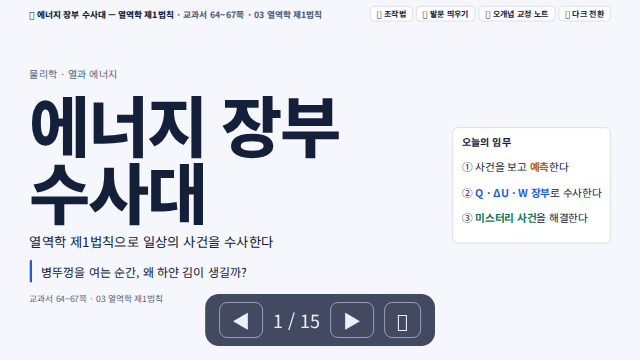
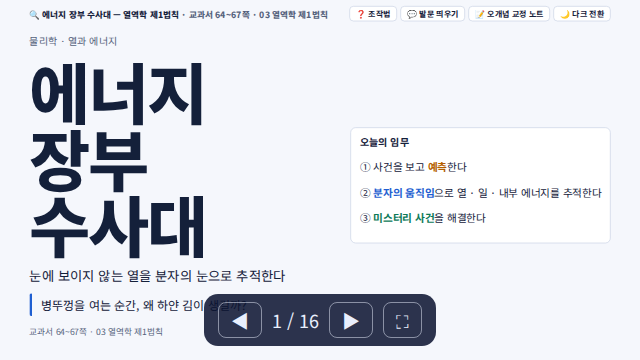
에너지 장부 수사대: 장부 채우기 대신 분자 시뮬레이션·분자 눈 해설로 개편 (16장)

diff --git a/lectures/mechanics-energy/2026-10-06-first-law-energy-ledger.html b/lectures/mechanics-energy/2026-10-06-first-law-energy-ledger.html
@@ -152,10 +152,10 @@ table.t tbody tr.on{background:var(--blue-soft);font-weight:700}
 <section class="slide cover" id="cover">
   <div class="cv-l"><div class="cv-tag">물리학 · 열과 에너지</div>
     <h1>에너지 장부 수사대</h1>
-    <p class="lead" style="margin:0">열역학 제1법칙으로 일상의 사건을 수사한다</p>
+    <p class="lead" style="margin:0">눈에 보이지 않는 열을 분자의 눈으로 추적한다</p>
     <div class="q">병뚜껑을 여는 순간, 왜 하얀 김이 생길까?</div>
     <div class="sm">교과서 64~67쪽 · 03 열역학 제1법칙</div></div>
-  <div class='box'><h3>오늘의 임무</h3><p>① 사건을 보고 <span class='k'>예측</span>한다</p><p>② <span class='p'>Q · ΔU · W 장부</span>로 수사한다</p><p>③ <span class='ok'>미스터리 사건</span>을 해결한다</p></div>
+  <div class='box'><h3>오늘의 임무</h3><p>① 사건을 보고 <span class='k'>예측</span>한다</p><p>② <span class='p'>분자의 움직임</span>으로 열 · 일 · 내부 에너지를 추적한다</p><p>③ <span class='ok'>미스터리 사건</span>을 해결한다</p></div>
 </section>
 
 <!-- hook -->
@@ -166,9 +166,18 @@ table.t tbody tr.on{background:var(--blue-soft);font-weight:700}
 
 <!-- rules -->
 <section class="slide" id="rules">
-  <header class="hd"><h2>게임 규칙: 장부를 채워라</h2><span class="src">수업 활동 안(제안)</span></header>
-<table class='t'><tr><th>구성물</th><th>역할</th></tr><tr><td>장부판</td><td>Q / ΔU / W 세 칸에 에너지 칩과 부호(＋ － 0)를 놓는다</td></tr><tr><td>사건 카드</td><td>일상 사건 5장 (병뚜껑 · 자전거 펌프 · 구름 · 밀폐 용기 · 주사기)</td></tr><tr><td>과정 카드</td><td>등온 / 단열 / 등압 / 등적 + P-V 그래프</td></tr><tr><td>점수</td><td>장부가 맞고 이유를 말하면 팀 점수, 막히면 힌트 카드 (협동 점수)</td></tr></table><div class='box' style='margin-top:22px'><h3>약속 (교과서 65쪽)</h3><p><span class='k'>Q > 0</span> 기체가 열을 흡수 · <span class='k'>Q < 0</span> 열을 방출</p><p><span class='p'>W > 0</span> 기체가 외부에 한 일 · <span class='p'>W < 0</span> 기체가 외부에게서 받은 일</p></div>
+  <header class="hd"><h2>수사 원칙: 열은 안 보여도 흔적이 남는다</h2><span class="src">교과서 65쪽</span></header>
+<div class='grid3'><div class='card'><b>🔥</b><span class='k'>열 Q</span> — 분자 충돌로 <span class='k'>옮겨 가는</span> 에너지<br><span class='sm'>뜨거운 벽의 빠른 분자가 부딪히며 무질서하게 전달</span></div><div class='card'><b>💪</b><span class='p'>일 W</span> — 피스톤이 한 방향으로 밀며 <span class='p'>옮겨 가는</span> 에너지<br><span class='sm'>다가오면 분자가 빨라지고, 멀어지면 느려진다</span></div><div class='card'><b>🔋</b><span class='ok'>내부 에너지 U</span> — 분자 운동에너지의 합 (<span class='ok'>저장</span>된 양)<br><span class='sm'>온도 = 분자 평균 운동에너지의 척도</span></div></div><div class='box' style='margin-top:22px'><h3>수사 요령</h3><p>열은 직접 안 보인다 → 눈에 보이는 <span class='k'>단서</span>로 추리한다: ① 피스톤의 움직임(일) ② 온도 변화(U) ③ 열판이 있는가(열)</p><p class='sm'>한 줄로: 열 · 일은 에너지가 드나드는 <b>통로</b>, 내부 에너지는 안에 <b>저장된</b> 양</p></div><div class='box' style='margin-top:22px'><h3>부호 약속 (교과서 65쪽)</h3><p><span class='k'>Q > 0</span> 기체가 열을 흡수 · <span class='k'>Q < 0</span> 열을 방출</p><p><span class='p'>W > 0</span> 기체가 외부에 한 일 · <span class='p'>W < 0</span> 기체가 외부에게서 받은 일</p></div>
 </section>
+
+<!-- mol -->
+<section class="slide" id="mol">
+  <header class="hd"><h2>분자 눈으로 보기: 열과 일이 U를 바꾼다</h2><span class="src">2차원 단순 모델 · 분자 48개</span></header>
+<div class="body" style="grid-template-columns:1040px 1fr">
+<canvas id='mo-cv'></canvas><div class='side'><div class='box'><h3>조작</h3><div class='sm' style='margin-bottom:6px'>아래 벽의 열판</div><div class='chips' id='mo-chips'><span class='chip' data-k='-1'>냉각</span><span class='chip on' data-k='0'>끔(단열)</span><span class='chip' data-k='1'>가열</span></div><div class='ctl' style='margin-top:14px'><div class='row'><span>피스톤 위치</span><span class='val' id='mo-pv'></span></div><input type='range' id='mo-p' min='420' max='960' step='5' value='900'></div><div class='btns' style='margin-top:12px'><button class='btn' id='mo-in'>⚡ 순식간에 밀기</button><button class='btn' id='mo-out'>⚡ 순식간에 당기기</button><button class='btn pri' id='mo-rs'>↺ 처음으로</button></div></div><div class='box'><h3>관찰 포인트</h3><p>① <span class='k'>가열</span>만 (피스톤 고정): 분자 색? W?</p><p>② 열판 <span class='k'>끔</span> + 피스톤 <span class='p'>밀기</span>: Q는? 온도는?</p><p>③ 팽창시키면서 가열하면 U는 얼마나 변할까?</p></div></div>
+</div>
+</section>
+
 
 <!-- video1 -->
 <section class="slide" id="video1">
@@ -229,20 +238,20 @@ table.t tbody tr.on{background:var(--blue-soft);font-weight:700}
 
 <!-- r13 -->
 <section class="slide" id="r13" data-steps="3">
-  <header class="hd"><h2>장부 공개: 단열 사건 3개</h2><span class="src">교과서 66~67쪽 · 단열 과정, 병뚜껑, 구름</span></header>
-<div class="side steps" style="gap:6px;justify-content:flex-start"><div class="st" data-i="1"><div class="n">1</div><div><div class="tl"><b>사건 1 · 병뚜껑</b><span class="t">순식간에 열림</span></div><div class="eq"><span class="m">Q ≈ 0, W > 0  →  ΔU < 0  →  T ↓</span></div><div class="t" style="color:var(--ink);font-size:27px;line-height:1.4">기체가 팽창하며 일 → 내부 에너지 감소 → 수증기 응결</div></div></div>
-<div class="st" data-i="2"><div class="n">2</div><div><div class="tl"><b>사건 2 · 자전거 펌프</b><span class="t">빠르게 누름</span></div><div class="eq"><span class="m">Q ≈ 0, W < 0  →  ΔU > 0  →  T ↑</span></div><div class="t" style="color:var(--ink);font-size:27px;line-height:1.4">받은 일이 내부 에너지로 (마찰의 기여는 확실하지 않음)</div></div></div>
-<div class="st" data-i="3"><div class="n">3</div><div><div class="tl"><b>사건 3 · 구름</b><span class="t">공기 덩어리가 상승</span></div><div class="eq"><span class="m">Q ≈ 0, W > 0  →  ΔU < 0  →  T ↓</span></div><div class="t" style="color:var(--ink);font-size:27px;line-height:1.4">단열 팽창으로 온도가 내려가 구름이 생김 (교과서 67쪽)</div></div></div></div>
-<div class='box'><h3>모둠 장부판에 먼저 쓰기 (3분)</h3><table class='t'><tr><th>사건</th><th>Q</th><th>ΔU</th><th>W</th><th>온도</th></tr><tr><td>① 병뚜껑</td><td>?</td><td>?</td><td>?</td><td>?</td></tr><tr><td>② 펌프</td><td>?</td><td>?</td><td>?</td><td>?</td></tr><tr><td>③ 구름</td><td>?</td><td>?</td><td>?</td><td>?</td></tr></table><p class='sm'>→ 키를 누르면 정답이 한 줄씩 공개됩니다</p></div>
+  <header class="hd"><h2>사건 해결: 단열 사건 3개</h2><span class="src">교과서 66~67쪽 · 단열 과정, 병뚜껑, 구름</span></header>
+<div class="side steps" style="gap:6px;justify-content:flex-start"><div class="st" data-i="1"><div class="n">1</div><div><div class="tl"><b>사건 1 · 병뚜껑</b><span class="t">순식간에 열림</span></div><div class="eq"><span class="m">Q ≈ 0, W > 0  →  ΔU < 0  →  T ↓</span></div><div class="t" style="color:var(--ink);font-size:27px;line-height:1.4">병 속 기체가 팽창하며 바깥 공기를 밀어냄 → 멀어지는 면에서 튕긴 분자가 느려져 U 감소 → 수증기 응결</div></div></div>
+<div class="st" data-i="2"><div class="n">2</div><div><div class="tl"><b>사건 2 · 자전거 펌프</b><span class="t">빠르게 누름</span></div><div class="eq"><span class="m">Q ≈ 0, W < 0  →  ΔU > 0  →  T ↑</span></div><div class="t" style="color:var(--ink);font-size:27px;line-height:1.4">다가오는 피스톤에 부딪힌 분자가 빨라져 U 증가 (마찰의 기여는 확실하지 않음)</div></div></div>
+<div class="st" data-i="3"><div class="n">3</div><div><div class="tl"><b>사건 3 · 구름</b><span class="t">공기 덩어리가 상승</span></div><div class="eq"><span class="m">Q ≈ 0, W > 0  →  ΔU < 0  →  T ↓</span></div><div class="t" style="color:var(--ink);font-size:27px;line-height:1.4">주변 기압이 낮아 팽창 → 분자가 느려져 온도 하강 → 수증기 응결 (교과서 67쪽)</div></div></div></div>
+<div class='box'><h3>모둠 토론 (3분): 분자 눈으로 먼저 말해 보기</h3><p>① 열이 드나들 수 있었나? (열판 역할을 하는 것이 있나?)</p><p>② 분자는 무엇과 부딪혀 빨라지거나 느려졌나?</p><p>③ 그래서 U와 온도는 어떻게 되었나?</p><p class='sm'>→ 키를 누르면 정답이 한 줄씩 공개됩니다</p></div>
 </section>
 
 <!-- r45 -->
 <section class="slide" id="r45" data-steps="3">
-  <header class="hd"><h2>장부 공개: 등적·등압 사건 2개</h2><span class="src">교과서 65~66쪽 · 해 보기, 등압·등적 과정</span></header>
-<div class="side steps" style="gap:6px;justify-content:flex-start"><div class="st" data-i="1"><div class="n">1</div><div><div class="tl"><b>사건 4 · 밀폐 용기 가열</b><span class="t">부피가 변하지 않음</span></div><div class="eq"><span class="m">W = 0  →  Q = ΔU</span></div><div class="t" style="color:var(--ink);font-size:27px;line-height:1.4">열이 모두 내부 에너지로 → 온도·압력 상승 (등적)</div></div></div>
-<div class="st" data-i="2"><div class="n">2</div><div><div class="tl"><b>사건 5a · 주사기 + 뜨거운 물</b><span class="t">피스톤이 올라감</span></div><div class="eq"><span class="m">Q > 0, ΔU > 0, W > 0</span></div><div class="t" style="color:var(--ink);font-size:27px;line-height:1.4">열 일부는 일, 나머지는 내부 에너지 (등압, 교과서 65쪽)</div></div></div>
-<div class="st" data-i="3"><div class="n">3</div><div><div class="tl"><b>사건 5b · 주사기 + 얼음물</b><span class="t">피스톤이 내려감</span></div><div class="eq"><span class="m">Q < 0, ΔU < 0, W < 0</span></div><div class="t" style="color:var(--ink);font-size:27px;line-height:1.4">열을 방출 → 부피 감소(외부가 일을 해 줌) → 온도 하강</div></div></div></div>
-<div class='box'><h3>모둠 장부판에 먼저 쓰기 (3분)</h3><p>교과서 65쪽 <span class='k'>해 보기</span>: 주사기 2개를 뜨거운 물과 얼음물에 넣고 피스톤 위치와 온도를 본다.</p><table class='t'><tr><th>사건</th><th>Q</th><th>ΔU</th><th>W</th></tr><tr><td>④ 밀폐 용기</td><td>?</td><td>?</td><td>?</td></tr><tr><td>⑤a 뜨거운 물</td><td>?</td><td>?</td><td>?</td></tr><tr><td>⑤b 얼음물</td><td>?</td><td>?</td><td>?</td></tr></table></div>
+  <header class="hd"><h2>사건 해결: 등적·등압 사건 2개</h2><span class="src">교과서 65~66쪽 · 해 보기, 등압·등적 과정</span></header>
+<div class="side steps" style="gap:6px;justify-content:flex-start"><div class="st" data-i="1"><div class="n">1</div><div><div class="tl"><b>사건 4 · 밀폐 용기 가열</b><span class="t">부피가 변하지 않음</span></div><div class="eq"><span class="m">W = 0  →  Q = ΔU</span></div><div class="t" style="color:var(--ink);font-size:27px;line-height:1.4">피스톤이 고정되어 분자를 밀어낼 수 없음 → 받은 에너지가 모두 분자 운동에너지(U)로 → 온도·압력 상승 (등적)</div></div></div>
+<div class="st" data-i="2"><div class="n">2</div><div><div class="tl"><b>사건 5a · 주사기 + 뜨거운 물</b><span class="t">피스톤이 올라감</span></div><div class="eq"><span class="m">Q > 0, ΔU > 0, W > 0</span></div><div class="t" style="color:var(--ink);font-size:27px;line-height:1.4">받은 에너지 일부는 피스톤을 밀어 올리는 데(일), 나머지는 분자가 빨라지는 데(U) (등압, 교과서 65쪽)</div></div></div>
+<div class="st" data-i="3"><div class="n">3</div><div><div class="tl"><b>사건 5b · 주사기 + 얼음물</b><span class="t">피스톤이 내려감</span></div><div class="eq"><span class="m">Q < 0, ΔU < 0, W < 0</span></div><div class="t" style="color:var(--ink);font-size:27px;line-height:1.4">분자가 차가운 벽에 에너지를 넘겨주고 느려짐 → 부피 감소(외부가 일을 해 줌) → 온도 하강</div></div></div></div>
+<div class='box'><h3>모둠 토론 (3분): 분자 눈으로 먼저 말해 보기</h3><p>교과서 65쪽 <span class='k'>해 보기</span>: 주사기 2개를 뜨거운 물과 얼음물에 넣고 피스톤 위치와 온도를 본다.</p><p>① 열은 어느 쪽으로 이동했나? ② 피스톤이 움직이면 분자 에너지는 어디로 갔나?</p><p>③ 피스톤이 안 움직이는 ④ 밀폐 용기에서는 에너지가 어디에 쌓이나?</p></div>
 </section>
 
 <!-- boss -->
@@ -257,8 +266,8 @@ table.t tbody tr.on{background:var(--blue-soft);font-weight:700}
 
 <!-- wrap -->
 <section class="slide" id="wrap">
-  <header class="hd"><h2>정리: 왜 이 장부를 배울까?</h2><span class="src">수업 정리</span></header>
-<div class='grid3'><div class='card'><b>🔍</b>눈에 안 보이는 <span class='p'>내부 에너지</span>를 Q와 W로 추리한다</div><div class='card'><b>⚖</b>온도 변화의 원인이 <span class='k'>열</span>인지 <span class='k'>일</span>인지 구분한다</div><div class='card'><b>⚙</b>열과 일을 주고받는 기계를 이해하는 출발점</div></div><div class='box' style='margin-top:22px'><h3>메타인지 질문 (한 줄 쓰기)</h3><p>① 처음 예측과 지금 생각은 어떻게 달라졌나?</p><p>② 오늘 장부로 설명할 수 있게 된 현상 한 가지는?</p><p>③ 아직 헷갈리는 칸(Q · ΔU · W)은?</p></div>
+  <header class="hd"><h2>정리: 보이지 않는 열을 어떻게 알아낼까?</h2><span class="src">수업 정리</span></header>
+<div class='grid3'><div class='card'><b>🔍</b>눈에 안 보이는 <span class='k'>열</span>은 분자 충돌로 옮겨 가는 에너지 — 흔적은 <span class='p'>U(온도)</span>와 <span class='p'>W(피스톤)</span>로 남는다</div><div class='card'><b>⚖</b>온도 변화의 원인이 <span class='k'>열</span>인지 <span class='k'>일</span>인지 구분한다</div><div class='card'><b>⚙</b>열과 일을 주고받는 기계를 이해하는 출발점</div></div><div class='box' style='margin-top:22px'><h3>메타인지 질문 (한 줄 쓰기)</h3><p>① 처음 예측과 지금 생각은 어떻게 달라졌나?</p><p>② 오늘 분자의 움직임으로 설명할 수 있게 된 현상 한 가지는?</p><p>③ 아직 헷갈리는 것은? (열 · 일 · 내부 에너지 중)</p></div>
 </section>
 
 <!-- exit -->
@@ -299,7 +308,7 @@ table.t tbody tr.on{background:var(--blue-soft);font-weight:700}
 /* =====================================================================
    공통 유틸 / 그리기 도우미 (템플릿 제공)
    ===================================================================== */
-const DECK = {"title":"에너지 장부 수사대 — 열역학 제1법칙","notes":{"cover":{"q":"도입 30초. 정답을 말하지 않고 \"사건 수사\"라는 틀만 소개한다. 병뚜껑 질문은 다음 장에서 본격적으로 다룬다.","m":[["열역학은 어려운 공식 암기 과목이다","오늘은 공식이 아니라 장부(Q, ΔU, W)로 사건을 추리하는 수업"]]},"hook":{"q":"정답을 알려 주지 않는다. 이유를 말하게 하고, 서로 다른 의견을 가진 짝을 찾아 설득하게 한다. 마지막에 다시 투표해 생각의 변화를 확인한다.","m":[["열이 밖으로 빠져나가서 차가워진다","열 출입이 없어도 기체가 일을 하면 온도가 내려간다 (이후 장부로 확인)"],["하얀 김은 병 속에서 나온 연기","공기 중 수증기가 차가워져 생긴 작은 물방울"]]},"rules":{"q":"규칙은 1분 안에. 부호 약속이 가장 중요하다. 이후 모든 장부 판정이 이 약속에 기반한다.","m":[["W > 0이면 기체가 일을 받는다","교과서 약속: W > 0은 기체가 외부에 일을 한 것"],["Q는 온도 변화다","Q는 열의 출입량. 온도는 내부 에너지 변화(ΔU)와 연결"]]},"video1":{"q":"영상 전에 임무를 읽어 준다. 00:54에서 멈춰 \"이 기호가 우리 장부의 세 칸\"임을 연결한다.","m":[["에너지는 사용하면 사라진다","열이 일로, 일이 열로 바뀔 뿐 총량은 보존된다"]]},"derive":{"q":"→ 키로 한 줄씩 공개하며, 각 단계에서 학생이 다음 식을 먼저 말해 보게 한다.","m":[["단면적이 크면 일도 항상 크다","같은 ΔV라면 단면적과 무관하게 W = PΔV는 같다"],["압력이 변해도 W = PΔV를 쓴다","압력이 변하면 P-V 그래프 아래 넓이로 계산"]]},"work":{"q":"슬라이더를 학생이 직접 조작하게 한다. ΔV를 음수로 하면 파란 넓이로 바뀌는 것을 보고 \"받은 일\"을 연결한다.","m":[["ΔV가 음수면 일이 없다","ΔV<0이면 W<0: 기체가 외부에게서 일을 받음"],["압력이 변하면 PΔV로 못 구한다","압력이 변하면 곡선 아래 넓이로 구한다 (다음 장)"]]},"video2":{"q":"영상 후 연결 질문: 상자를 열지 않고 안을 아는 것 = 내부 에너지를 직접 보지 않고 Q와 W로 추리하는 것. 이 비유가 \"왜 배우나\"의 답이다.","m":[["블록은 실제로 존재하는 에너지 알갱이다","에너지는 보존된다는 사실을 보여 주는 비유 (실제 알갱이가 아님)"]]},"law":{"q":"확인 문제 03(답 300 J)을 먼저 직접 풀게 한 뒤 버튼으로 확인한다. \"Q=0, W=100\" 버튼은 병뚜껑 사건과 연결된다.","m":[["열을 가하면 항상 온도가 오른다","Q>0이어도 W가 크면 ΔU≤0이 될 수 있다 (등온 팽창)"],["W가 크면 항상 ΔU가 크다","ΔU = Q − W: W가 클수록 ΔU는 작아진다"]]},"proc":{"q":"네 과정을 차례로 눌러 보며 장부 표가 바뀌는 것을 본다. 등온과 단열을 번갈아 눌러 넓이를 비교한다.","m":[["단열 과정은 온도가 일정하다","단열은 Q=0. 단열에선 온도가 변한다 (ΔU=−W). 온도가 일정한 건 등온"],["등온 과정이면 Q=0이다","등온에서 ΔU=0이라 Q=W (열을 받아 일로 바꿈)"],["P-V 곡선 모양이 비슷하면 일도 같다","넓이를 비교한다: 등온(82 J)이 단열(76 J)보다 크다 (예시값)"]]},"simroom":{"q":"모둠별로 한 탭씩 맡아 예측 → 실행 → 장부 설명 순서로 진행한다. 병 입구 −59 °C는 이상 모델의 상한이라 실제 값이 아님을 먼저 안내한다.","m":[["시뮬레이션의 온도 값이 실제 온도다","이상 모델의 상한값. 실제는 더 작을 수 있다 (확실하지 않음 → 적외선 온도계로 실측)"],["열 교환 정도 0은 마찰이 없다는 뜻","열 출입이 없는 단열 극한을 뜻한다"]]},"r13":{"q":"모둠이 먼저 장부판을 채운 뒤 정답을 한 줄씩 공개한다. 세 사건 모두 \"순간적이라 Q≈0\"이라는 공통점을 학생 입으로 말하게 한다.","m":[["단열이면 Q=0이라 아무 일도 안 일어난다","Q=0이어도 W 때문에 ΔU가 변하고 온도가 바뀐다"],["단열이면 완전히 열이 안 새야 한다","\"열이 드나들 시간이 없을 정도로 빠른 과정\"도 단열로 근사한다"]]},"r45":{"q":"가능하면 주사기 실험을 실제로 보여 준다. 실험 전에 장부판 예측을 쓰게 한다.","m":[["열을 빼앗기면 W는 0이다","부피가 줄면 W<0 (외부가 기체에 일을 해 줌)"],["밀폐 용기에서도 기체는 일을 한다","부피가 일정하면 W=0"]]},"boss":{"q":"영상 2의 \"블록 상자\" 비유를 다시 꺼낸다. 사건 D는 \"무슨 과정이었을까?\"로 확장해 등적 과정을 학생이 스스로 말하게 한다.","m":[["미스터리는 정답이 하나뿐이다","사건 D처럼 W=0이면 등적 외에 다른 과정 조합도 생각해 볼 수 있다 (토론)"]]},"wrap":{"q":"도입의 병뚜껑 질문으로 돌아가 학생이 장부로 설명하게 한다. 처음 투표와 비교해 생각이 바뀐 학생의 이유를 듣는다.","m":[["열역학 제1법칙은 에너지 보존의 다른 이름일 뿐이다","열·일·내부 에너지를 모두 포함해 쓰는 보존 법칙의 한 표현"]]},"exit":{"q":"O/X 카드가 없으면 양손(O=손 올림, X=팔 교차)으로 한다. 틀린 학생이 많은 문항은 시뮬레이션 탭으로 되돌아가 다시 확인한다.","m":[["등온과 단열은 이름만 다른 같은 과정","등온: ΔT=0, 단열: Q=0"]]}},"ask":{"cover":["오늘 우리는 눈에 보이지 않는 무엇을 추적하게 될까?"],"hook":["병 입구 기체의 온도는 어떻게 될까? 이유도 함께!"],"rules":["장부판의 세 칸은 각각 무엇을 뜻할까?","W가 음수라면 어떤 상황일까?"],"video1":["영상에서 열이 일로 바뀐 장면은 어디였나?","영상의 Q, ΔU, W는 우리 장부의 어느 칸일까?"],"derive":["단면적 A는 왜 마지막 식에서 사라질까?","기체가 압축되면 W의 부호는?"],"work":["ΔV가 0이면 W는? 그때 그래프의 넓이는?","압력을 2배로 하면 일은 몇 배가 될까?"],"video2":["장부(Q, W)만 보고 상자 안(ΔU)을 알 수 있을까?"],"law":["Q=500 J, W=200 J이면 ΔU는? (확인 문제 03)","Q=0인데 W>0이면 온도는?"],"proc":["같은 V₁→V₂ 팽창에서 등온과 단열 중 일이 더 큰 쪽은?","등적 과정에서 W는 왜 0일까?"],"simroom":["열 교환 정도를 1로 올리면 온도는 왜 안 변할까?","손이 한 일 −W는 어디로 갔을까?"],"r13":["세 사건의 공통점은?","W의 부호가 다른 사건은 어느 것?"],"r45":["부피가 변하지 않으면 열은 어디로 갈까?","주사기가 얼음물에서 줄어들 때 W의 부호는?"],"boss":["숨은 한 칸을 어떻게 찾았나? 근거는?"],"wrap":["병뚜껑 질문을 다시: 이제 장부로 설명해 보자."],"exit":["① ~ ④ 문장의 O/X와 이유는?"]}};
+const DECK = {"title":"에너지 장부 수사대 — 열역학 제1법칙","notes":{"cover":{"q":"도입 30초. 정답을 말하지 않고 \"사건 수사\"라는 틀만 소개한다. 오늘의 단서는 눈에 안 보이는 열을 분자 눈으로 추적하는 것.","m":[["열역학은 어려운 공식 암기 과목이다","오늘은 공식 암기가 아니라 분자의 움직임으로 열·일·내부 에너지를 추리하는 수업"]]},"hook":{"q":"정답을 알려 주지 않는다. 이유를 말하게 하고, 서로 다른 의견을 가진 짝을 찾아 설득하게 한다. 마지막에 다시 투표해 생각의 변화를 확인한다.","m":[["열이 밖으로 빠져나가서 차가워진다","열 출입이 없어도 기체가 일을 하면 온도가 내려간다 (이후 분자 시뮬레이션으로 확인)"],["하얀 김은 병 속에서 나온 연기","공기 중 수증기가 차가워져 생긴 작은 물방울"]]},"rules":{"q":"1분 안에. 핵심은 '열 · 일은 이동하는 에너지, 내부 에너지는 저장된 에너지'. 부호 약속은 이후 모든 판정의 기준이 된다.","m":[["열은 물체 안에 들어 있는 에너지다","물체 안에 저장된 것은 내부 에너지 U. 열 Q는 온도 차 때문에 이동한 에너지의 양"],["온도가 높으면 열이 많다","온도는 분자 평균 운동에너지의 척도. 열은 이동한 에너지"],["W > 0이면 기체가 일을 받는다","교과서 약속: W > 0은 기체가 외부에 일을 한 것"]]},"video1":{"q":"영상 전에 임무를 읽어 준다. 00:54에서 멈춰 \"이 기호가 우리 장부의 세 칸\"임을 연결한다.","m":[["에너지는 사용하면 사라진다","열이 일로, 일이 열로 바뀔 뿐 총량은 보존된다"]]},"derive":{"q":"→ 키로 한 줄씩 공개하며, 각 단계에서 학생이 다음 식을 먼저 말해 보게 한다.","m":[["단면적이 크면 일도 항상 크다","같은 ΔV라면 단면적과 무관하게 W = PΔV는 같다"],["압력이 변해도 W = PΔV를 쓴다","압력이 변하면 P-V 그래프 아래 넓이로 계산"]]},"work":{"q":"슬라이더를 학생이 직접 조작하게 한다. ΔV를 음수로 하면 파란 넓이로 바뀌는 것을 보고 \"받은 일\"을 연결한다.","m":[["ΔV가 음수면 일이 없다","ΔV<0이면 W<0: 기체가 외부에게서 일을 받음"],["압력이 변하면 PΔV로 못 구한다","압력이 변하면 곡선 아래 넓이로 구한다 (다음 장)"]]},"video2":{"q":"영상 후 연결 질문: 상자를 열지 않고 안을 아는 것 = 내부 에너지를 직접 보지 않고 Q와 W로 추리하는 것. 이 비유가 \"왜 배우나\"의 답이다.","m":[["블록은 실제로 존재하는 에너지 알갱이다","에너지는 보존된다는 사실을 보여 주는 비유 (실제 알갱이가 아님)"]]},"law":{"q":"확인 문제 03(답 300 J)을 먼저 직접 풀게 한 뒤 버튼으로 확인한다. \"Q=0, W=100\" 버튼은 병뚜껑 사건과 연결된다.","m":[["열을 가하면 항상 온도가 오른다","Q>0이어도 W가 크면 ΔU≤0이 될 수 있다 (등온 팽창)"],["W가 크면 항상 ΔU가 크다","ΔU = Q − W: W가 클수록 ΔU는 작아진다"]]},"proc":{"q":"네 과정을 차례로 눌러 보며 장부 표가 바뀌는 것을 본다. 등온과 단열을 번갈아 눌러 넓이를 비교한다.","m":[["단열 과정은 온도가 일정하다","단열은 Q=0. 단열에선 온도가 변한다 (ΔU=−W). 온도가 일정한 건 등온"],["등온 과정이면 Q=0이다","등온에서 ΔU=0이라 Q=W (열을 받아 일로 바꿈)"],["P-V 곡선 모양이 비슷하면 일도 같다","넓이를 비교한다: 등온(82 J)이 단열(76 J)보다 크다 (예시값)"]]},"simroom":{"q":"모둠별로 한 탭씩 맡아 예측 → 실행 → 장부 설명 순서로 진행한다. 병 입구 −59 °C는 이상 모델의 상한이라 실제 값이 아님을 먼저 안내한다.","m":[["시뮬레이션의 온도 값이 실제 온도다","이상 모델의 상한값. 실제는 더 작을 수 있다 (확실하지 않음 → 적외선 온도계로 실측)"],["열 교환 정도 0은 마찰이 없다는 뜻","열 출입이 없는 단열 극한을 뜻한다"]]},"r13":{"q":"모둠이 분자 눈으로 먼저 말해 본 뒤 정답을 한 줄씩 공개한다. 세 사건 모두 \"순간적이라 Q≈0\"이라는 공통점을 학생 입으로 말하게 한다.","m":[["단열이면 Q=0이라 아무 일도 안 일어난다","Q=0이어도 W 때문에 ΔU가 변하고 온도가 바뀐다"],["단열이면 완전히 열이 안 새야 한다","\"열이 드나들 시간이 없을 정도로 빠른 과정\"도 단열로 근사한다"]]},"r45":{"q":"가능하면 주사기 실험을 실제로 보여 준다. 실험 전에 '열은 어디로, 에너지는 어디로'를 말로 예측하게 한다.","m":[["열을 빼앗기면 W는 0이다","부피가 줄면 W<0 (외부가 기체에 일을 해 줌)"],["밀폐 용기에서도 기체는 일을 한다","부피가 일정하면 W=0"]]},"boss":{"q":"영상 2의 \"블록 상자\" 비유를 다시 꺼낸다. 사건 D는 \"무슨 과정이었을까?\"로 확장해 등적 과정을 학생이 스스로 말하게 한다.","m":[["미스터리는 정답이 하나뿐이다","사건 D처럼 W=0이면 등적 외에 다른 과정 조합도 생각해 볼 수 있다 (토론)"]]},"wrap":{"q":"도입의 병뚜껑 질문으로 돌아가 학생이 분자의 움직임으로 설명하게 한다. 처음 투표와 비교해 생각이 바뀐 학생의 이유를 듣는다.","m":[["열역학 제1법칙은 에너지 보존의 다른 이름일 뿐이다","열·일·내부 에너지를 모두 포함해 쓰는 보존 법칙의 한 표현"]]},"exit":{"q":"O/X 카드가 없으면 양손(O=손 올림, X=팔 교차)으로 한다. 틀린 학생이 많은 문항은 시뮬레이션 탭으로 되돌아가 다시 확인한다.","m":[["등온과 단열은 이름만 다른 같은 과정","등온: ΔT=0, 단열: Q=0"]]},"mol":{"q":"순서: ① 열판 가열(피스톤 고정) → 분자가 빨라짐, W=0 ② 처음으로 → 열판 끔 + 순식간에 밀기 → Q=0인데 U 증가 ③ 열판 가열 + 천천히 당기기 → ΔU가 거의 0(등온 맛보기). 매번 Q − W = ΔU 확인.","m":[["단열 압축에서 열이 들어온다","열판이 꺼져 있어 Q=0. 다가오는 피스톤에 부딪힌 분자가 빨라져 U가 늘어난 것"],["분자 하나하나가 열이다","열은 에너지가 이동한 양. 분자 운동에너지의 합이 내부 에너지 U"],["이 화면이 실제 기체의 모습이다","분자 48개의 2차원 단순화 모델. 실제로는 분자가 약 10^22개이고 분자끼리도 충돌한다"]]}},"ask":{"cover":["오늘 우리는 눈에 보이지 않는 무엇을 추적하게 될까?"],"hook":["병 입구 기체의 온도는 어떻게 될까? 이유도 함께!"],"rules":["열과 내부 에너지는 어떻게 다를까? (이동 vs 저장)","W가 음수라면 어떤 상황일까?"],"video1":["영상에서 열이 일로 바뀐 장면은 어디였나?","영상의 Q, ΔU, W는 우리 장부의 어느 칸일까?"],"derive":["단면적 A는 왜 마지막 식에서 사라질까?","기체가 압축되면 W의 부호는?"],"work":["ΔV가 0이면 W는? 그때 그래프의 넓이는?","압력을 2배로 하면 일은 몇 배가 될까?"],"video2":["장부(Q, W)만 보고 상자 안(ΔU)을 알 수 있을까?"],"law":["Q=500 J, W=200 J이면 ΔU는? (확인 문제 03)","Q=0인데 W>0이면 온도는?"],"proc":["같은 V₁→V₂ 팽창에서 등온과 단열 중 일이 더 큰 쪽은?","등적 과정에서 W는 왜 0일까?"],"simroom":["열 교환 정도를 1로 올리면 온도는 왜 안 변할까?","손이 한 일 −W는 어디로 갔을까?"],"r13":["세 사건의 공통점은?","W의 부호가 다른 사건은 어느 것?"],"r45":["부피가 변하지 않으면 열은 어디로 갈까?","주사기가 얼음물에서 줄어들 때 W의 부호는?"],"boss":["숨은 한 칸을 어떻게 찾았나? 근거는?"],"wrap":["병뚜껑 질문을 다시: 이제 분자 눈으로 설명해 보자."],"exit":["① ~ ④ 문장의 O/X와 이유는?"],"mol":["열판만 켰을 때와 피스톤만 밀었을 때, 분자의 변화는 어떻게 다를까?","어떤 경우에도 Q − W = ΔU가 맞는 까닭은?"]}};
 const $ = (s, r = document) => r.querySelector(s);
 const $$ = (s, r = document) => [...r.querySelectorAll(s)];
 const TAU = Math.PI * 2, DPR = 2;
@@ -357,6 +366,31 @@ function adAxes(ctx,x,y,w,h,xr,yr,xl,yl){ctx.save();ctx.strokeStyle='rgba(160,19
  for(let i=0;i<=4;i++){const xv=xr[0]+(xr[1]-xr[0])*i/4,yv=yr[0]+(yr[1]-yr[0])*i/4;ctx.beginPath();ctx.moveTo(X(xv),y);ctx.lineTo(X(xv),y+h);ctx.stroke();ctx.beginPath();ctx.moveTo(x,Y(yv));ctx.lineTo(x+w,Y(yv));ctx.stroke();ctx.textAlign='center';ctx.fillText(xv.toFixed(1),X(xv),y+h+26);ctx.textAlign='right';ctx.fillText(yv.toFixed(1),x-8,Y(yv)+6);}
  ctx.strokeStyle='#9db0d8';ctx.lineWidth=2;ctx.beginPath();ctx.moveTo(x,y);ctx.lineTo(x,y+h);ctx.lineTo(x+w,y+h);ctx.stroke();
  ctx.fillStyle='#e3ecff';ctx.font='700 22px sans-serif';ctx.textAlign='right';ctx.fillText(xl,x+w,y+h+58);ctx.textAlign='left';ctx.fillText(yl,x-10,y-14);ctx.restore();return{X:X,Y:Y};}
+
+const MOL=(function(){
+ const X0=40,YT=60,YB=460,PXMIN=420,PXMAX=960,PX0=900,R=7,N=48,SIG0=110,SIGH=230,SIGC=35,UMAX=200;
+ function gauss(r){return Math.sqrt(-2*Math.log(1-r()))*Math.cos(TAU*r());}
+ function ke(p){return .5*(p.vx*p.vx+p.vy*p.vy);}
+ function make(seed){const r=mulberry(seed),s={rnd:r,px:PX0,tgt:PX0,u:0,plate:0,Q:0,W:0,p:[]};
+  for(let i=0;i<N;i++)s.p.push({x:X0+R+r()*(PX0-X0-2*R),y:YT+R+r()*(YB-YT-2*R),vx:SIG0*gauss(r),vy:SIG0*gauss(r),fh:0,fp:0});
+  s.U0=U(s);return s;}
+ function U(s){let u=0;s.p.forEach(function(p){u+=ke(p);});return u;}
+ function step(s,dt){
+  const du=s.tgt-s.px;let u=Math.max(-UMAX,Math.min(UMAX,du*6));if(Math.abs(du)<.4)u=0;
+  s.u=u;s.px=Math.max(PXMIN,Math.min(PXMAX,s.px+u*dt));
+  s.p.forEach(function(p){
+   p.x+=p.vx*dt;p.y+=p.vy*dt;p.fh=Math.max(0,p.fh-dt);p.fp=Math.max(0,p.fp-dt);
+   if(p.x<X0+R){p.x=X0+R;p.vx=Math.abs(p.vx);}
+   if(p.y<YT+R){p.y=YT+R;p.vy=Math.abs(p.vy);}
+   if(p.y>YB-R){p.y=YB-R;
+    if(s.plate===0)p.vy=-Math.abs(p.vy);
+    else{const e0=ke(p),sg=s.plate>0?SIGH:SIGC;p.vy=-sg*Math.sqrt(-2*Math.log(1-s.rnd()));p.vx=sg*gauss(s.rnd);s.Q+=ke(p)-e0;p.fh=.25;}}
+   if(p.x>s.px-R){p.x=s.px-R;
+    if(p.vx>s.u){const e0=ke(p);p.vx=2*s.u-p.vx;s.W-=ke(p)-e0;p.fp=.25;}}
+  });}
+ function run(s,t){const n=Math.ceil(t*240);for(let i=0;i<n;i++)step(s,1/240);}
+ return{X0:X0,YT:YT,YB:YB,PXMIN:PXMIN,PXMAX:PXMAX,PX0:PX0,R:R,make:make,step:step,run:run,U:U};
+})();
 function TESTS(){
  const T=[],rel=function(a,b){return Math.abs(a-b)/Math.max(Math.abs(b),1e-12);},ks=['iso','adi','isobar','isochor'],nm={iso:'\ub4f1\uc628',adi:'\ub2e8\uc5f4',isobar:'\ub4f1\uc555',isochor:'\ub4f1\uc801'};
  ks.forEach(function(k){const c=PHYS.calc(k);T.push(['\uc81c1\ubc95\uce59 Q = \u0394U + W ('+nm[k]+')',Math.abs(c.Q-(c.dU+c.W))<1e-9*Math.max(1,Math.abs(c.Q)),'Q='+c.Q.toFixed(1)+', \u0394U='+c.dU.toFixed(1)+', W='+c.W.toFixed(1)+' J']);});
@@ -369,6 +403,13 @@ function TESTS(){
  T.push(['\ud655\uc778 \ubb38\uc81c 03: Q=500 J, W=200 J \u2192 \u0394U=300 J',500-200===300,'\uad50\uacfc\uc11c 65\ucabd']);
  T.push(['1 atm\u00b7L = 101.325 J \ub2e8\uc704 \ud658\uc0b0',Math.abs(101325*1e-3-101.325)<1e-9,'']);
  ['iso','adi','isobar','isochor'].forEach(function(k){const e=PHYS.live(k,1),c=PHYS.calc(k),m=PHYS.live(k,0.5);T.push(['애니메이션 끝점 = 해석값 ('+nm[k]+')',Math.abs(e.W-c.W)<1e-3*Math.max(1,Math.abs(c.W))&&Math.abs(e.dU-c.dU)<1e-3*Math.max(1,Math.abs(c.dU)),'W,ΔU 일치']);T.push(['애니메이션 중간에도 Q = ΔU + W ('+nm[k]+')',Math.abs(m.Q-(m.dU+m.W))<1e-9*Math.max(1,Math.abs(m.Q)),'']);});
+
+ {const s=MOL.make(7),U0=s.U0;s.plate=1;MOL.run(s,1.5);s.plate=0;s.tgt=450;MOL.run(s,2);s.plate=-1;s.tgt=900;MOL.run(s,2);
+  T.push(['분자 시뮬레이션: ΔU = Q − W (열판+피스톤 혼합)',Math.abs((MOL.U(s)-U0)-(s.Q-s.W))<1e-6*U0,'ΔU='+(MOL.U(s)-U0).toFixed(0)+', Q−W='+(s.Q-s.W).toFixed(0)]);}
+ {const s=MOL.make(3),U0=s.U0;s.tgt=430;MOL.run(s,2);
+  T.push(['분자 시뮬레이션: 단열 압축 Q = 0, ΔU > 0, W < 0',s.Q===0&&MOL.U(s)>U0&&s.W<0,'ΔU/U0='+((MOL.U(s)-U0)/U0).toFixed(2)]);}
+ {const s=MOL.make(5),U0=s.U0;s.plate=1;MOL.run(s,2);
+  T.push(['분자 시뮬레이션: 피스톤 고정 가열 W = 0, ΔU = Q > 0',s.W===0&&s.Q>0&&Math.abs(MOL.U(s)-U0-s.Q)<1e-6*U0,'Q/U0='+(s.Q/U0).toFixed(2)]);}
  return T;}
 
 
@@ -376,6 +417,45 @@ function TESTS(){
    슬라이드별 모듈: { start(), stop(), frame(dt), onStep(step) }
    ===================================================================== */
 const REG = {};
+/* ---- mol ---- */
+REG["mol"] = safe("mol.init", function () {
+const cv=document.getElementById('mo-cv'),W=1040,H=760,ctx=setupCanvas(cv,W,H),chips=document.querySelectorAll('#mo-chips .chip'),inP=document.getElementById('mo-p');
+let s=MOL.make(11),acc=0;
+function spd(p){return Math.min(1,Math.hypot(p.vx,p.vy)/380);}
+function pcol(p){const t=spd(p);return 'rgb('+Math.round(110+145*t)+','+Math.round(170-80*t)+','+Math.round(255-185*t)+')';}
+function sg(x){return (x>0.05?'+':x<-0.05?'−':'')+Math.abs(x).toFixed(0);}
+function draw(){
+ ctx.fillStyle=C.bg;ctx.fillRect(0,0,W,H);
+ const X0=MOL.X0,YT=MOL.YT,YB=MOL.YB,px=s.px,k=100/s.U0;
+ document.getElementById('mo-pv').textContent=Math.round((px-X0)/(MOL.PX0-X0)*100)+' %';
+ ctx.fillStyle='rgba(255,255,255,.04)';ctx.fillRect(X0,YT,px-X0,YB-YT);
+ ctx.strokeStyle='#9db0d8';ctx.lineWidth=5;ctx.beginPath();ctx.moveTo(px,YT-8);ctx.lineTo(X0,YT-8);ctx.lineTo(X0,YB+8);ctx.stroke();
+ ctx.fillStyle=s.plate>0?'#ff5d4a':s.plate<0?'#4aa3ff':'#5b6785';ctx.fillRect(X0-5,YB,px-X0+5,22);
+ ctx.fillStyle='#e3ecff';ctx.font='700 22px sans-serif';ctx.textAlign='left';ctx.fillText(s.plate>0?'열판: 가열':s.plate<0?'열판: 냉각':'단열 벽 (열판 끔)',X0+8,YB+50);
+ ctx.fillStyle='#c9d4ee';ctx.fillRect(px,YT-8,22,YB-YT+30);ctx.fillRect(px+22,(YT+YB)/2-8,W-px-22,16);
+ if(Math.abs(s.u)>1){ctx.fillStyle='#ffb454';adArrow(ctx,px+40,(YT+YB)/2-46,px+40+Math.sign(s.u)*60,(YT+YB)/2-46,'#ffb454',6);}
+ s.p.forEach(function(p){ctx.fillStyle=pcol(p);ctx.beginPath();ctx.arc(p.x,p.y,MOL.R,0,TAU);ctx.fill();
+  if(p.fh>0||p.fp>0){ctx.strokeStyle=p.fh>0?'#b48cff':'#ffb454';ctx.lineWidth=4;ctx.globalAlpha=Math.min(1,Math.max(p.fh,p.fp)*4);ctx.beginPath();ctx.arc(p.x,p.y,MOL.R+5,0,TAU);ctx.stroke();ctx.globalAlpha=1;}});
+ const Q=s.Q*k,Wk=s.W*k,dU=(MOL.U(s)-s.U0)*k;
+ const hot=s.plate!==0,mv=Math.abs(s.u)>1;
+ ctx.fillStyle='#9db0d8';ctx.font='600 24px sans-serif';ctx.textAlign='left';
+ ctx.fillText(hot&&mv?'열판 충돌(열) + 피스톤 충돌(일)이 함께 분자 에너지를 바꾸는 중':hot?'열판과의 무질서한 충돌로 에너지가 이동 = 열 Q':mv?'피스톤이 한 방향으로 밀고 당기며 충돌 = 일 W':'닫힌 단열 상태: 에너지가 드나들 통로가 없다',X0,YB+86);
+ const bx=[[40,'Q  열','#b48cff',Q],[380,'W  기체가 한 일','#ffb454',Wk],[720,'ΔU  분자 운동에너지 변화','#7fd6ff',dU]];
+ bx.forEach(function(b){ctx.strokeStyle=b[2];ctx.lineWidth=3;ctx.strokeRect(b[0],YB+110,280,100);ctx.fillStyle='#9db0d8';ctx.font='600 22px sans-serif';ctx.textAlign='left';ctx.fillText(b[1],b[0]+12,YB+138);
+  ctx.fillStyle=b[2];ctx.font='700 44px sans-serif';ctx.fillText(sg(b[3]),b[0]+12,YB+192);});
+ ctx.fillStyle='#e3ecff';ctx.font='700 34px sans-serif';ctx.textAlign='center';ctx.fillText('Q − W = ΔU',330,YB+245);
+ const ok=Math.abs((Q-Wk)-dU)<.05;ctx.fillStyle='#5eead4';ctx.font='700 26px sans-serif';ctx.textAlign='left';ctx.fillText(ok?'✔ 항상 성립':'',420,YB+245);
+ ctx.fillStyle='#9db0d8';ctx.font='600 20px sans-serif';ctx.fillText('(처음 U = 100 단위)',720,YB+245);ctx.fillStyle='#b48cff';ctx.fillText('○ 보라 테두리 = 열판과 충돌',40,YB+288);ctx.fillStyle='#ffb454';ctx.fillText('○ 주황 테두리 = 피스톤과 충돌',360,YB+288);ctx.fillStyle='#9db0d8';ctx.fillText('분자 색: 파랑(느림) → 빨강(빠름)',680,YB+288);
+}
+chips.forEach(function(ch){ch.addEventListener('click',function(){s.plate=+ch.getAttribute('data-k');chips.forEach(function(o){o.classList.toggle('on',o===ch);});draw();});});
+inP.addEventListener('input',function(){s.tgt=+inP.value;});
+document.getElementById('mo-in').addEventListener('click',function(){inP.value=MOL.PXMIN;s.tgt=MOL.PXMIN;});
+document.getElementById('mo-out').addEventListener('click',function(){inP.value=MOL.PXMAX;s.tgt=MOL.PXMAX;});
+function reset(){s=MOL.make(11);inP.value=MOL.PX0;chips.forEach(function(o){o.classList.toggle('on',o.getAttribute('data-k')==='0');});draw();}
+document.getElementById('mo-rs').addEventListener('click',reset);
+return{start:reset,frame:function(dt){acc+=dt;const n=Math.max(1,Math.round(acc*240));for(let i=0;i<n;i++)MOL.step(s,acc/n);acc=0;draw();}};
+});
+
 /* ---- work ---- */
 REG["work"] = safe("work.init", function () {
 const cv=document.getElementById('w6-cv'),W=1040,H=760,ctx=setupCanvas(cv,W,H),inP=document.getElementById('w6-p'),inD=document.getElementById('w6-d');
